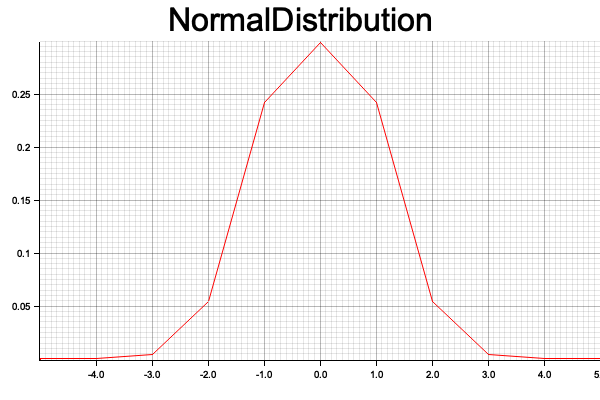
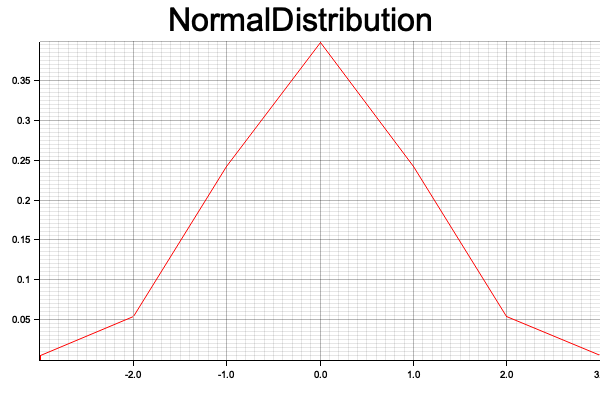
fix: plotters

diff --git a/normal_distribution/src/main.rs b/normal_distribution/src/main.rs
@@ -12,14 +12,15 @@ fn main() {
         .set_label_area_size(LabelAreaPosition::Left, 40)
         .set_label_area_size(LabelAreaPosition::Bottom, 40)
         .caption("NormalDistribution", ("sans-selif", 40))
-        .build_cartesian_2d(-5.0..5.0, 0.0..0.3)
+        .build_cartesian_2d(-3.0..3.0, 0.0..0.4)
         .unwrap();
     let mut norm = NormalDistribution::new(0.0, 1.0);
+    norm.show_info();
     // メッシュ図にする
     chart.configure_mesh().draw().unwrap();
     chart
         .draw_series(LineSeries::new(
-            (-100..=100).map(|x| (x as f64, (norm.method(&(x as f64))))),
+            (-100..=100).map(|x| (x as f64, norm.method(&(x as f64)))),
             &RED,
         ))
         .unwrap();
@@ -39,12 +40,12 @@ impl NormalDistribution {
     }
 
     fn method(&mut self, x: &f64) -> f64 {
-        let numerator = (-(x - self.mu).powi(2) / (2.0_f64 * self.sigma.powi(2))).exp();
+        let numerator = -(x - self.mu).powi(2) / (2.0_f64 * self.sigma.powi(2));
         // sqrtは、累乗根を持つようになる
         // PIは、π
         let denominator = (2.0_f64 * f64::consts::PI).sqrt() * self.sigma;
-        println!("{:?}",numerator/denominator);
-        numerator / denominator
+        println!("{:?}", numerator.exp() / denominator);
+        numerator.exp() / denominator
     }
 
     /// 与えられたx(ベクトル)に対して、正規分布に従った
